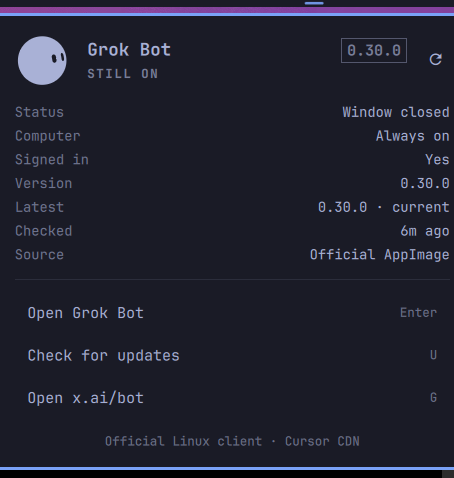
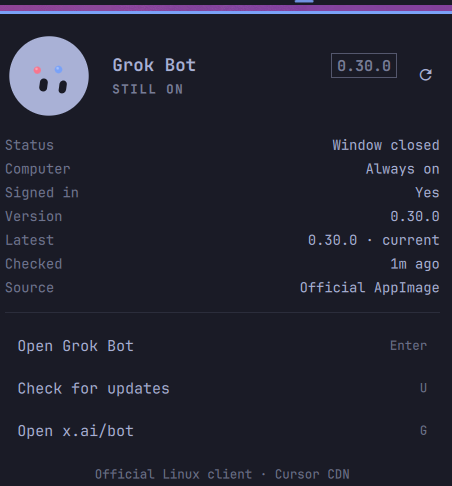
Add the official x.ai/bot orbit in Omarchy theme colors.
Five beads on the production 3D ellipse (radius 52, y-squash 0.42,
0.0017 rad/ms). Colors come from the active theme palette (Tokyo Night
red/blue/green/yellow/magenta, and the same keys on every other theme)
instead of the x.ai brand coral. Back beads sit behind the head; the
bar stays a clean face.

diff --git a/GrokBotIcon.qml b/GrokBotIcon.qml
@@ -1,5 +1,6 @@
 import QtQuick
 import QtQuick.Shapes
+import Quickshell
 import Quickshell.Io
 import qs.Commons
 
@@ -25,9 +26,11 @@ Item {
   property real nowMs: 0
   property string mood: "idle"
   property int frameIndex: 0
+  property var themePalette: ({})
 
   readonly property bool awake: installed && !alarming
   readonly property real s: width / 259
+  readonly property real headC: 114.2705
   readonly property color bodyColor: root.color
   readonly property color eyeColor: Color.background
   readonly property real wobble: {
@@ -37,9 +40,26 @@ Item {
       return 1.6
     return 1.0
   }
+  readonly property real wobbleX: 2 * Math.sin(nowMs / 1000 * 0.4) * s * wobble
+  readonly property real wobbleY: 1.5 * Math.sin(nowMs / 1000 * 0.3) * s * wobble
+  readonly property bool orbitHero: width >= 28
+  readonly property real orbitMin: orbitHero ? 3.2 : 2.2
 
-  // Official face-only states. Morph overlays (orbit, radar, pencil, …)
-  // stay off — they do not read at bar size.
+  // Official eB palette order (coral, blue, green, gold, violet), remapped
+  // onto the active Omarchy theme so Tokyo Night (and every other theme)
+  // keeps the same five-bead orbit without the x.ai brand reds.
+  readonly property var orbitColors: {
+    var p = themePalette || {}
+    return [
+      p.red || p.bright_red || String(Color.urgent),
+      p.blue || p.accent || String(Color.accent),
+      p.green || p.bright_green || String(Color.accent),
+      p.yellow || p.orange || p.bright_yellow || String(Color.foreground),
+      p.magenta || p.bright_magenta || String(Color.muted)
+    ]
+  }
+
+  // Official face states from 1em52idajmaks.js. Orbit is a separate overlay.
   readonly property var liveCatalog: [
     { name: "idle", frames: [0, 8], hold: [2800, 5200], stay: [6000, 10000] },
     { name: "humming", frames: [0, 8], hold: [3500, 7000], stay: [5000, 9000] },
@@ -164,6 +184,17 @@ Item {
     return look
   }
 
+  function parsePalette(text) {
+    var map = {}
+    var lines = String(text || "").split("\n")
+    for (var i = 0; i < lines.length; i++) {
+      var m = lines[i].match(/^\s*([A-Za-z0-9_]+)\s*=\s*"?(#[0-9A-Fa-f]{6})/)
+      if (m)
+        map[m[1]] = m[2]
+    }
+    themePalette = map
+  }
+
   width: iconSize
   height: iconSize
   implicitWidth: iconSize
@@ -182,6 +213,14 @@ Item {
         root.pickMood()
       } catch (e) { }
     }
+  }
+
+  FileView {
+    id: themeFile
+    path: Quickshell.env("HOME") + "/.local/state/omarchy/current/theme/colors.toml"
+    watchChanges: true
+    printErrors: false
+    onLoaded: root.parsePalette(themeFile.text())
   }
 
   NumberAnimation {
@@ -251,12 +290,22 @@ Item {
     }
   }
 
+  // Official eB orbit: 5 beads on a 3D ellipse, radius 52, y-squash 0.42,
+  // 0.0017 rad/ms. Unrolled — Repeater `index` is not in scope inside the
+  // bar/panel Component. No lagged trails: at hero size they smear into a belt.
+  OrbitDot { slot: 0; lag: 0 }
+  OrbitDot { slot: 1; lag: 0 }
+  OrbitDot { slot: 2; lag: 0 }
+  OrbitDot { slot: 3; lag: 0 }
+  OrbitDot { slot: 4; lag: 0 }
+
   Shape {
     id: markShape
     width: 259
     height: 259
-    x: 15 * root.s + 2 * Math.sin(root.nowMs / 1000 * 0.4) * root.s * root.wobble
-    y: 15 * root.s + 1.5 * Math.sin(root.nowMs / 1000 * 0.3) * root.s * root.wobble
+    x: 15 * root.s + root.wobbleX
+    y: 15 * root.s + root.wobbleY
+    z: 2
     transformOrigin: Item.TopLeft
     scale: root.s
     preferredRendererType: Shape.CurveRenderer
@@ -276,6 +325,37 @@ Item {
       fillColor: root.eyeColor
       strokeWidth: 0
       PathSvg { path: root.eye1Path }
+    }
+  }
+
+  component OrbitDot: Rectangle {
+    required property int slot
+    required property real lag
+    readonly property real ang: root.nowMs * 0.0017 + slot * Math.PI * 2 / 5 - lag
+    readonly property real facing: Math.cos(ang)
+    readonly property real lit: 0.5 + 0.5 * Math.max(0, Math.min(1, facing))
+    readonly property real pr: Math.max(12 * lit, 0.3)
+    readonly property real diam: Math.max(root.orbitMin, pr * root.s * 2)
+    x: (root.headC + 52 * Math.sin(ang) + 15) * root.s + root.wobbleX - width / 2
+    y: (root.headC - 0.42 * 52 * Math.cos(ang) + 15) * root.s + root.wobbleY - height / 2
+    width: diam
+    height: diam
+    radius: width / 2
+    color: root.orbitColors[slot % 5]
+    opacity: Math.max(0.18, Math.min(1, (facing + 0.4) / 0.6)) * (lag > 0.01 ? 0.34 : 1)
+    z: facing > 0 ? 3 : 0
+    visible: root.installed && root.orbitHero
+    antialiasing: true
+
+    Rectangle {
+      visible: root.orbitHero && lag < 0.01
+      width: parent.width * 0.34
+      height: width
+      radius: width / 2
+      x: parent.width * 0.22
+      y: parent.height * 0.16
+      color: "#ffffff"
+      opacity: 0.32
     }
   }
 }

diff --git a/Panel.qml b/Panel.qml
@@ -227,7 +227,7 @@ Panel {
             iconOpacity: grok.installed ? 1.0 : 0.55
             iconComponent: Component {
               GrokBotIcon {
-                iconSize: Style.space(44)
+                iconSize: Style.space(72)
                 color: root.iconColor
                 running: grok.running
                 alarming: grok.alarming

diff --git a/README.md b/README.md
@@ -46,6 +46,7 @@ On Omarchy / Hyprland, launch with `--ozone-platform-hint=auto` if the window do
 ## What it does
 
 - **Face:** the real x.ai/bot `IconMark` (head path + 25 eye rings from production JS). Head fill is the Omarchy icon color; eyes use the theme background. Moods cycle from the official table — idle, curious, thinking, listening, happy, drowsy, and the rest — instead of looping one glance
+- **Orbit:** the official five-bead 3D ellipse from x.ai/bot (radius 52, y-squash 0.42, 0.0017 rad/ms). Bead colors come from the active Omarchy theme (Tokyo Night red/blue/green/yellow/magenta, and the matching keys on every other theme) instead of the x.ai brand palette
 - **Clicks:** left opens the panel, right launches or focuses Grok Bot, middle checks Cursor's CDN for a newer Linux AppImage
 - **Panel:** connected / window closed, signed in, cloud computer stays on
 - **Updates:** same version feed as macOS/Windows. **Update now** downloads the Linux AppImage when a newer one is on the CDN. A desktop notification fires once per new version (also on a six-hour background check)
